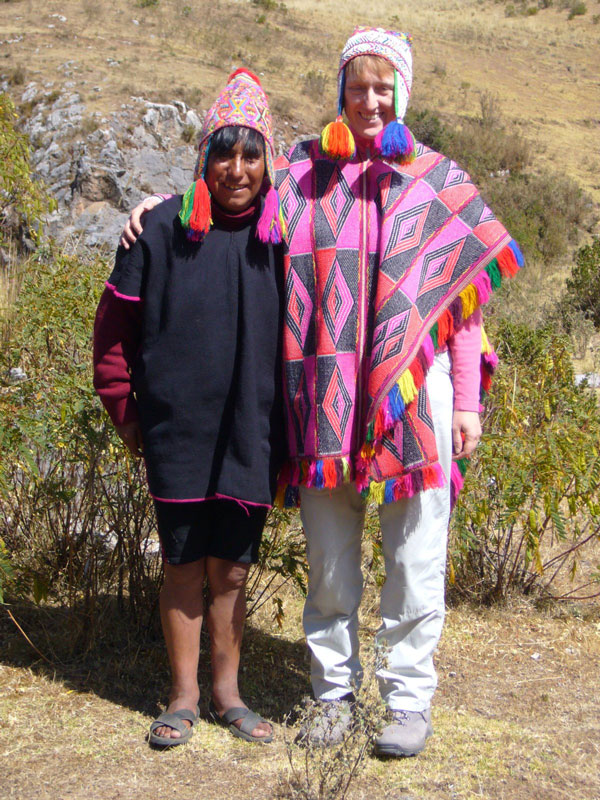
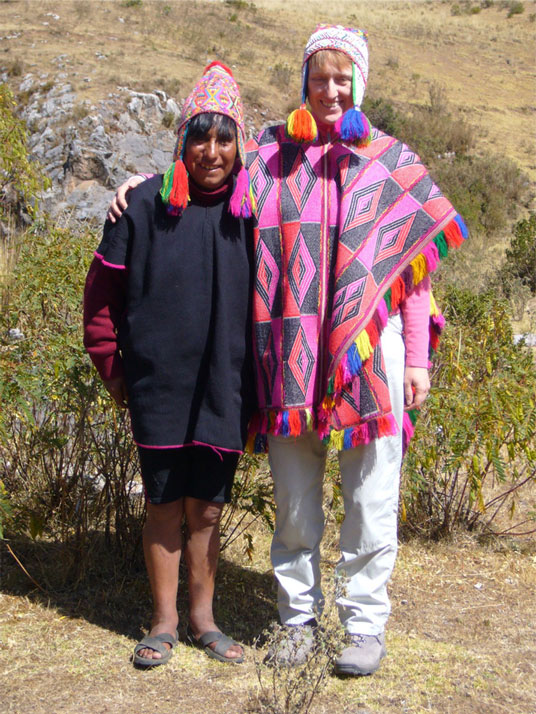
Adjusts images in callouts, change background-position to improve view and changes image in rates & contact callouts

diff --git a/assets/css/style.css b/assets/css/style.css
@@ -28,6 +28,7 @@ html {
 }
 
 /* paddings/margins/borders */
+
 /*
 body {
     padding-top: 54px;
@@ -55,7 +56,7 @@ body {
 /* Containers' code is based on code from the Whiskey Drop lesson*/
 
 .callout-container {
-    height: 82vh;
+    height: 90vh;
     /* allows info below the fold to show on most screens to encourage users to scroll down. */
     display: -webkit-box;
     display: -ms-flexbox;
@@ -78,7 +79,7 @@ body {
 }
 
 .cc-seh {
-    background: url("../images/alex-grey-theologue-hd.jpg") no-repeat center top fixed;
+    background: url("../images/alex-grey-theologue-hd.jpg") no-repeat center bottom fixed;
     -webkit-background-size: cover;
     -moz-background-size: cover;
     -o-background-size: cover;
@@ -86,7 +87,7 @@ body {
 }
 
 .cc-about {
-    background: url("../images/agustin-family.jpg") no-repeat right 55% top fixed;
+    background: url("../images/agustin-family.jpg") no-repeat right 56% top fixed;
     -webkit-background-size: cover;
     -moz-background-size: cover;
     -o-background-size: cover;
@@ -94,7 +95,7 @@ body {
 }
 
 .cc-rates {
-    background: url("../images/mesas.jpg") no-repeat center bottom fixed;
+    background: url("../images/4winds-ceremony-moray-landscape.jpg") no-repeat left 15% bottom fixed;
     -webkit-background-size: cover;
     -moz-background-size: cover;
     -o-background-size: cover;
@@ -102,7 +103,7 @@ body {
 }
 
 .cc-contact {
-    background: url("../images/despacho-augustin-luis-50.jpg") no-repeat left 90% bottom fixed;
+    background: url("../images/despacho-augustin-luis-50-crop.jpg") no-repeat left 80% top 80% fixed;
     -webkit-background-size: cover;
     -moz-background-size: cover;
     -o-background-size: cover;
@@ -219,12 +220,12 @@ body {
 
 @media screen and (max-width: 576px) {
     .logo img {
-        width: 134px;
-        height: 22px;
+        width: 150px;
+        height: 24px;
     }
 }
 
-@media screen and (min-width: 576px) and (max-width: 768px) {
+@media screen and (min-width: 425px) and (max-width: 768px) {
     .logo img {
         width: 184px;
         height: 30px;

diff --git a/seh.html b/seh.html
@@ -23,7 +23,7 @@
     <nav class="navbar fixed-top navbar-dark bg-secondary text-white font-weight-bold navbar-expand-md">
 
         <!-- Navbar-brand - Logo-->
-        <a class="navbar-brand img-responsive logo" href="index.html">
+        <a class="navbar-brand logo" href="index.html">
                 <img src="assets/images/logo-white-8-res-50.png" alt="Logo" title="Click to go home">
         </a>
 
@@ -64,7 +64,7 @@
     <main>
 
         <!-- Callout -->
-        <div class="container-fluid callout-container cc-seh my-5">
+        <div class="container-fluid callout-container cc-seh mb-5">
             <div class="opaque-overlay">&nbsp;</div>
             <div class="row justify-content-center">
                 <div class="col-12">
@@ -574,7 +574,7 @@
 
         <div class="row no-gutters text-center pt-2">
             <div class="col-sm-4 mt-3">
-                <a class="footer-brand img-responsive logo" href="index.html">
+                <a class="footer-brand logo" href="index.html">
                 <img src="assets/images/logo-white-8-res-50.png" alt="footer-brand" title="Click to go home">
             </a>
             </div>

diff --git a/index.html b/index.html
@@ -23,7 +23,7 @@
     <nav class="navbar fixed-top navbar-dark bg-secondary text-white font-weight-bold navbar-expand-md">
 
         <!-- Navbar-brand - Logo-->
-        <a class="navbar-brand img-responsive logo" href="index.html"><img src="assets/images/logo-white-8-res-50.png" alt="Logo" title="Click to go home"></a>
+        <a class="navbar-brand logo" href="index.html"><img src="assets/images/logo-white-8-res-50.png" alt="Logo" title="Click to go home"></a>
 
         <!-- Navbar-toggler - Hamburger icon on smaller devices-->
         <button class="navbar-toggler ml-auto" type="button" data-toggle="collapse" data-target="#navbarNavDropdown" aria-controls="navbarNavDropdown" aria-expanded="false" aria-label="Toggle navigation">
@@ -213,7 +213,7 @@
 
         <div class="row no-gutters text-center pt-2">
             <div class="col-sm-4 mt-3">
-                <a class="footer-brand img-responsive logo" href="index.html">
+                <a class="footer-brand logo" href="index.html">
                 <img src="assets/images/logo-white-8-res-50.png" alt="footer-brand" title="Click to go home">
             </a>
             </div>

diff --git a/rates.html b/rates.html
@@ -23,7 +23,7 @@
     <nav class="navbar fixed-top navbar-dark bg-secondary text-white font-weight-bold navbar-expand-md">
 
         <!-- Navbar-brand - Logo-->
-        <a class="navbar-brand img-responsive logo" href="index.html">
+        <a class="navbar-brand logo" href="index.html">
                 <img src="assets/images/logo-white-8-res-50.png" width="297" height="44" alt="Logo" title="Click to go home">
         </a>
 
@@ -169,7 +169,7 @@
 
         <div class="row no-gutters text-center pt-2">
             <div class="col-sm-4 mt-3">
-                <a class="footer-brand img-responsive logo" href="index.html">
+                <a class="footer-brand logo" href="index.html">
                 <img src="assets/images/logo-white-8-res-50.png" alt="footer-brand" title="Click to go home">
             </a>
             </div>

diff --git a/about.html b/about.html
@@ -23,7 +23,7 @@
     <nav class="navbar fixed-top navbar-dark bg-secondary text-white font-weight-bold navbar-expand-md">
 
         <!-- Navbar-brand - Logo-->
-        <a class="navbar-brand img-responsive logo" href="index.html">
+        <a class="navbar-brand logo" href="index.html">
                 <img src="assets/images/logo-white-8-res-50.png" alt="Logo" title="Click to go home">
         </a>
 
@@ -148,7 +148,7 @@
 
         <div class="row no-gutters text-center pt-2">
             <div class="col-sm-4 mt-3">
-                <a class="footer-brand img-responsive logo" href="index.html">
+                <a class="footer-brand logo" href="index.html">
                 <img src="assets/images/logo-white-8-res-50.png" alt="footer-brand" title="Click to go home">
             </a>
             </div>

diff --git a/contact.html b/contact.html
@@ -170,7 +170,7 @@
 
         <div class="row no-gutters text-center pt-2">
             <div class="col-sm-4 mt-3">
-                <a class="footer-brand img-responsive logo" href="index.html">
+                <a class="footer-brand logo" href="index.html">
                 <img src="assets/images/logo-white-8-res-50.png" alt="footer-brand" title="Click to go home">
             </a>
             </div>
